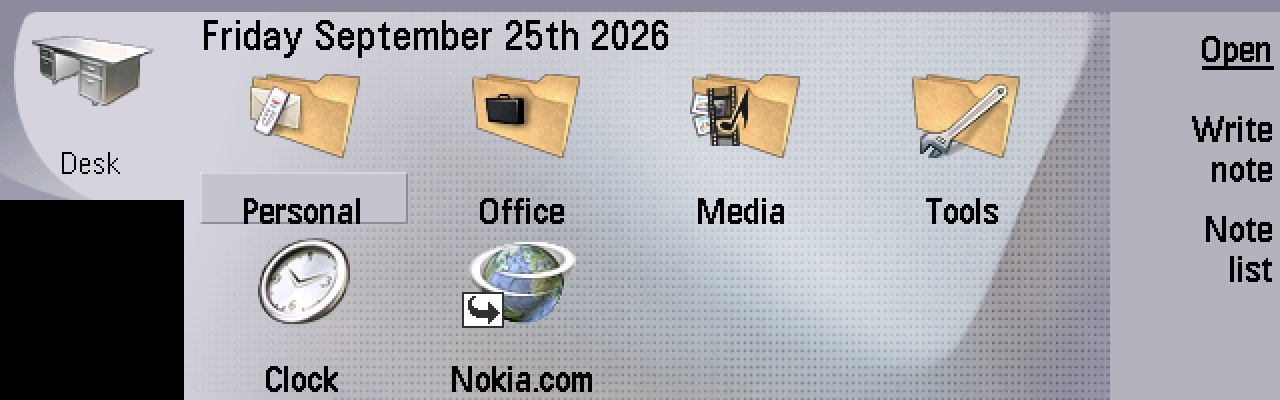
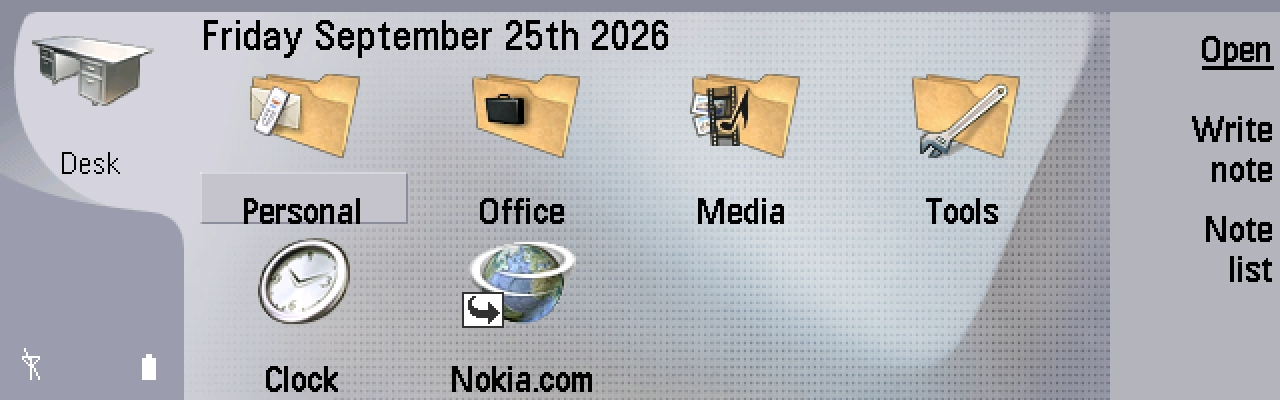
nokia9300: re-pin to s80-integration @ fa385d47a (Series 80 status pane)
S1 paints the status pane (skin, no-network and battery indicators) under
the HLE Eikon server, so no app bleeds through at the lower left any more.
Proven on the dark rig through the real SPA: Desk, F6 Telephone directory,
F5 Desk, F10 Documents + typing, F8 Web home, F5 Desk; reset = relaunch.
Hero replaced with the new Desk frame. Golden v2 unchanged.

Claude-Session: https://claude.ai/code/session_013auTaTEgfFDf2Sdw48TWqt

Changed region(s): [[0.0, 0.48, 0.1562, 1.0]]

diff --git a/docs/guests/nokia9300.md b/docs/guests/nokia9300.md
@@ -12,7 +12,8 @@ ARM925T at 150 MHz, 64 MiB RAM, 640x200 inner display in 65,536 colours, full
 QWERTY keyboard, clamshell) running its **own firmware 5.22 of 2005-11-16** —
 Symbian OS 7.0s (EKA1 kernel) with the Series 80 v2 interface. The station
 opens at **Desk**, the Series 80 shell: date header, the Personal / Office /
-Media / Tools groups, Clock and Nokia.com. No pointer and no touchscreen: Series
+Media / Tools groups, Clock and Nokia.com, and the status pane at the lower
+left (skin, no-network and battery indicators). No pointer and no touchscreen: Series
 80 is driven by four command buttons beside the screen, eight application
 buttons below it, a joystick and the keyboard.
 
@@ -29,19 +30,20 @@ buttons below it, a joystick and the keyboard.
 ## Emulator
 
 **EKA2L1**, the Symbian HLE emulator, from our fork `github.com/Wnt/EKA2L1`,
-branch **`s80-integration` @ `3f8b52782`** (GPL-3; pinned in
+branch **`s80-integration` @ `fa385d47a`** (GPL-3; pinned in
 `tiles/nokia9300.sh`). Agents I2/I3 merged every Series 80 branch of the
 2026-09-24 wave onto upstream master `39858137e`: the 7.0s window-server
 tables (F1), application buttons in the window server (B1), the ROM's own
 keyboard tables (K1), the museum kiosk frontend and `ekactl/1` control socket
 (B2), Desk content (B6), the third-app fix (B4), an HLE DOS server (B5), Opera's
 home page (N7), icon masks (A1), clock faces (A2), Messaging folders (M1) and
-the Telephone directory (T1: SecurityServer pre-started + a Phone Server stub). Built on labhost by
+the Telephone directory (T1: SecurityServer pre-started + a Phone Server stub),
+and the Series 80 status pane painted under the HLE Eikon server (S1). Built on labhost by
 `scripts/build-guests/emulators/build-eka2l1.sh` (agent D1's branch
 `eka2l1-builder`: pinned fork commit, trixie build root under nspawn, shared
 ccache, mold; the configure stamp is gated, so the binary logs
-`EKA2L1 v0.0.1 (s80-integration-3f8b52782)`); 70 s incremental from the
-previous pin, sha256 `57f0e112…267c`.
+`EKA2L1 v0.0.1 (s80-integration-fa385d47a)`); 94 s incremental from the
+previous pin, sha256 `d7cf295d…0b1b`.
 
 Run protocol: `eka2l1_qt --device RAE-6 --run 0x101f8e4f` (Desk) with
 `XDG_DATA_HOME` on a private data dir — EKA2L1 copies `compat/ patch/
@@ -187,7 +189,7 @@ this path and the nspawn CRIU route is blocked by the sandbox's seccomp filter.
   screen without any network.
 - Apps proven on s80-integration by agent I2: Desk, Documents, Web, File
   manager, Contacts, Clock (both faces), Sync, Write note, three at once.
-  On 3f8b52782 Messaging shows its folders and Telephone its directory.
+  Since 3f8b52782 Messaging shows its folders and Telephone its directory.
 
 ## Network
 
@@ -225,8 +227,8 @@ LIVE display before it can be patched for an x11 rig.
 - Clock home city: Change city → Helsinki does not commit (SVC `0xC00049`
   unimplemented); the guest clock is Helsinki time through `TZ`, the label says
   New York.
-- Desk's lower-left status pane is never painted (B7's ROM-shell work); the app
-  behind shows through there.
+- The status pane (lower left) shows the skin and the no-network and battery
+  indicators but no clock yet (S1 may add it).
 - Messaging opens with a one-time "Cannot find message storage. Try restoring
   from a backup." note (Enter closes it); baking the message store into the
   golden would remove it. Menu hold (task list): `CaptureLongKey` unhandled.
